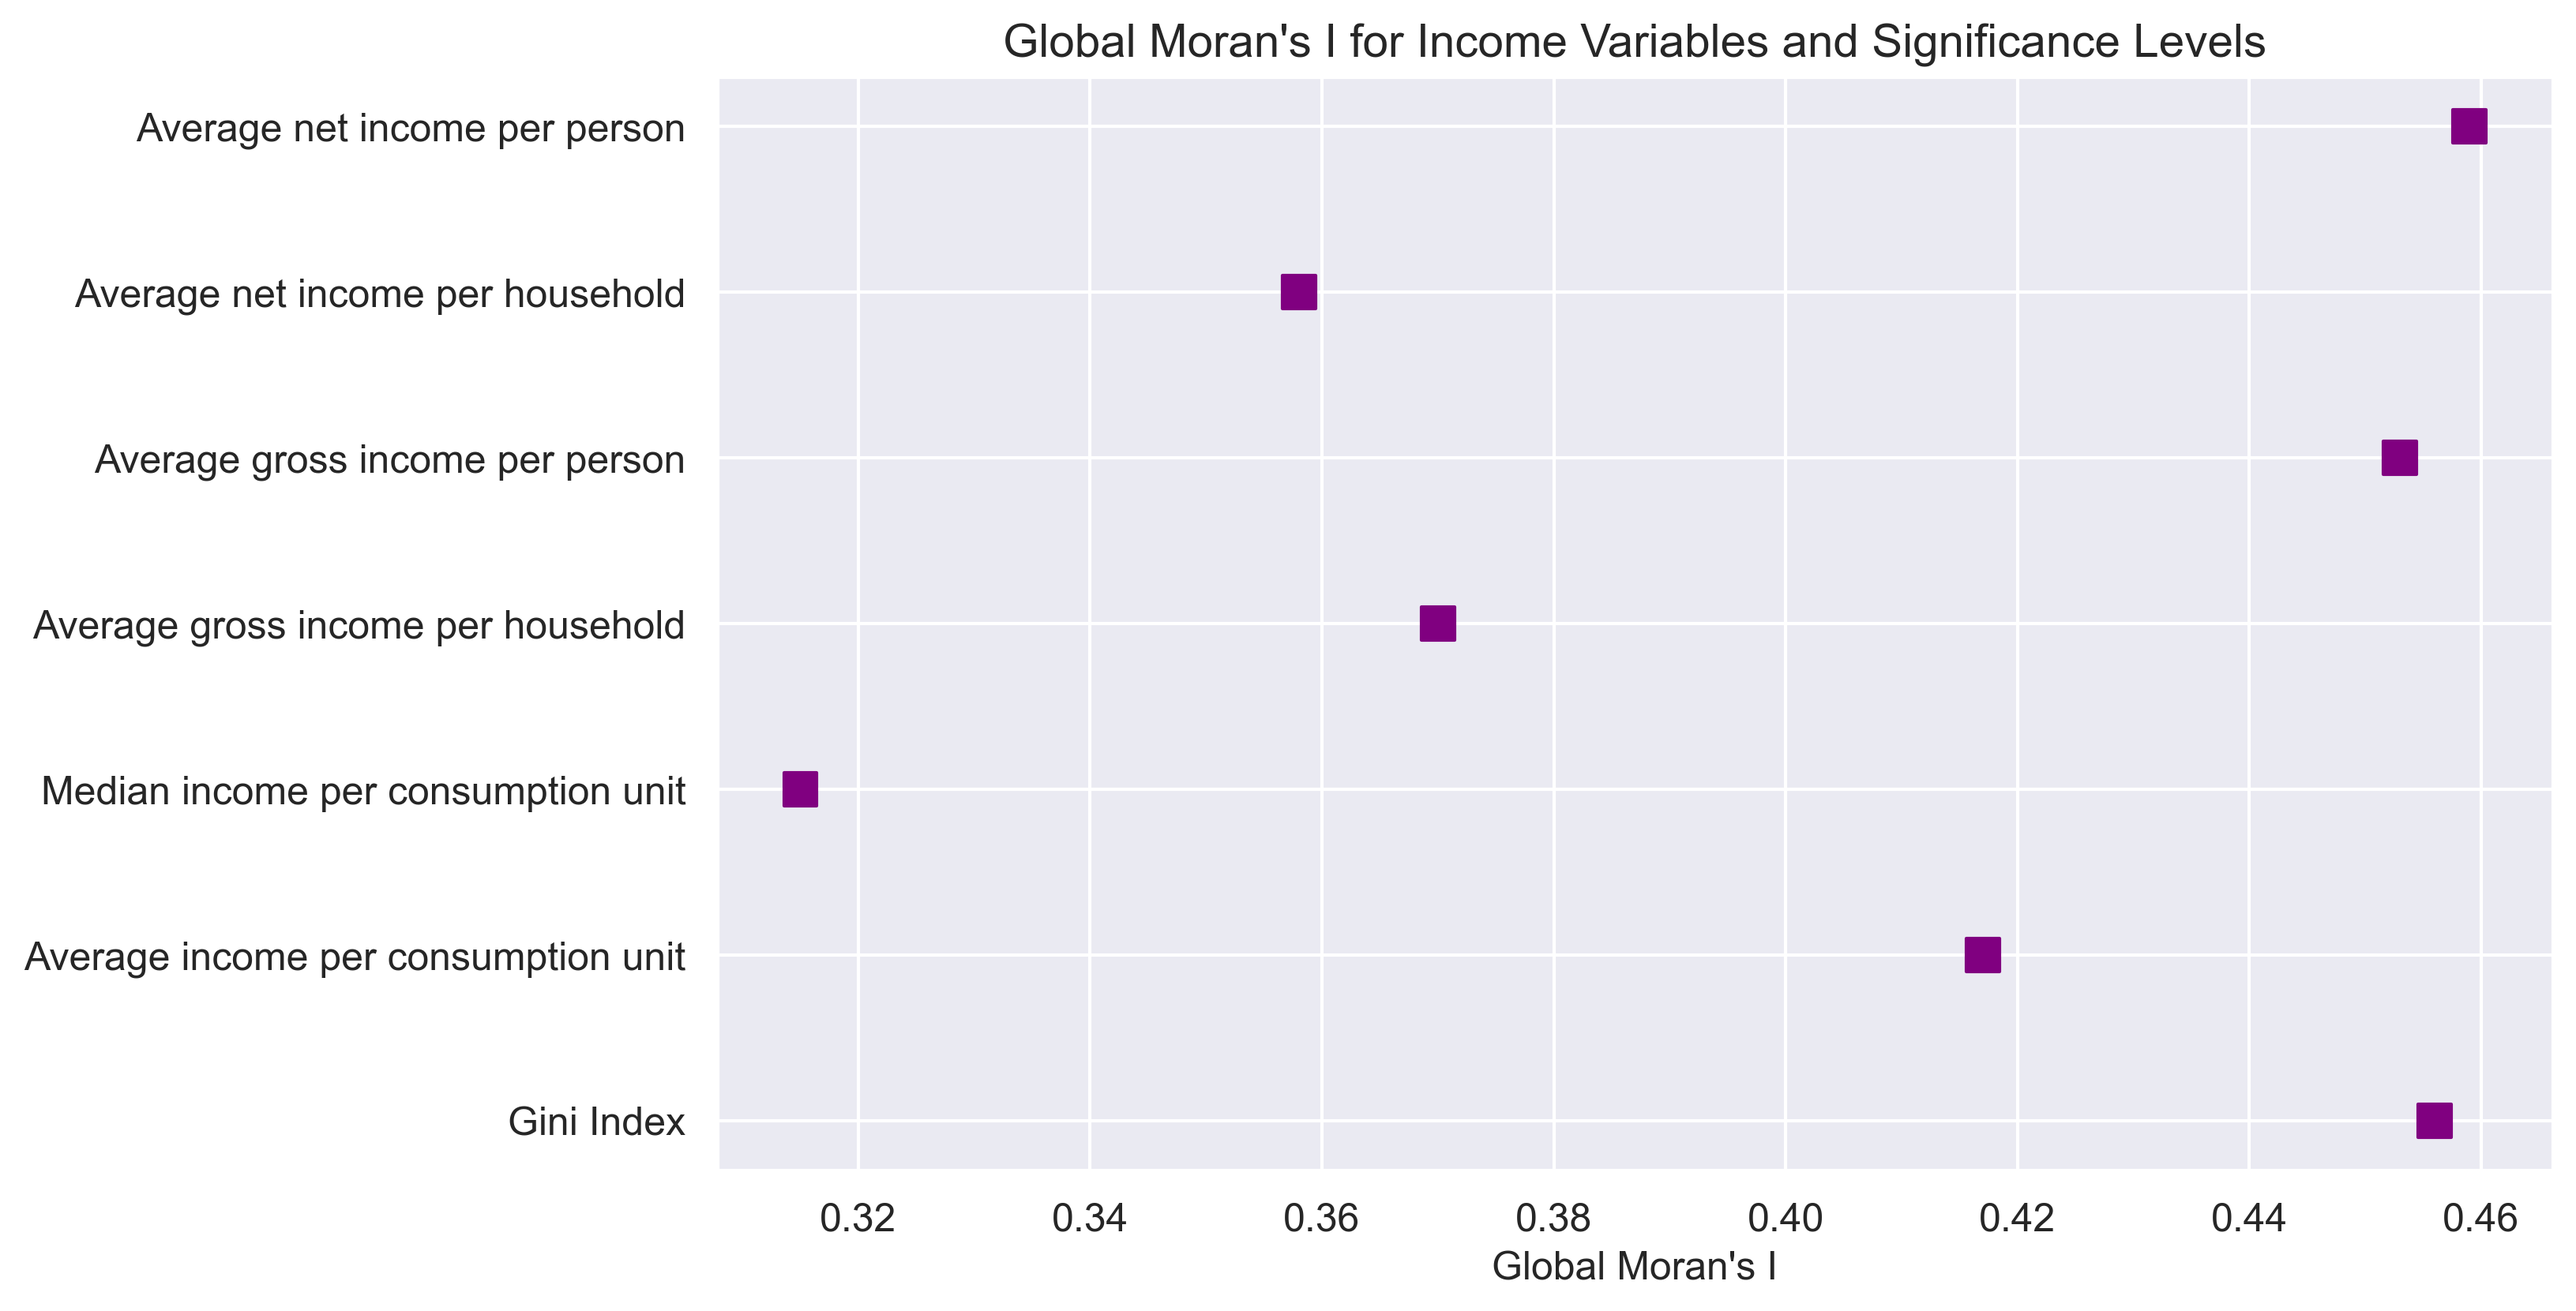
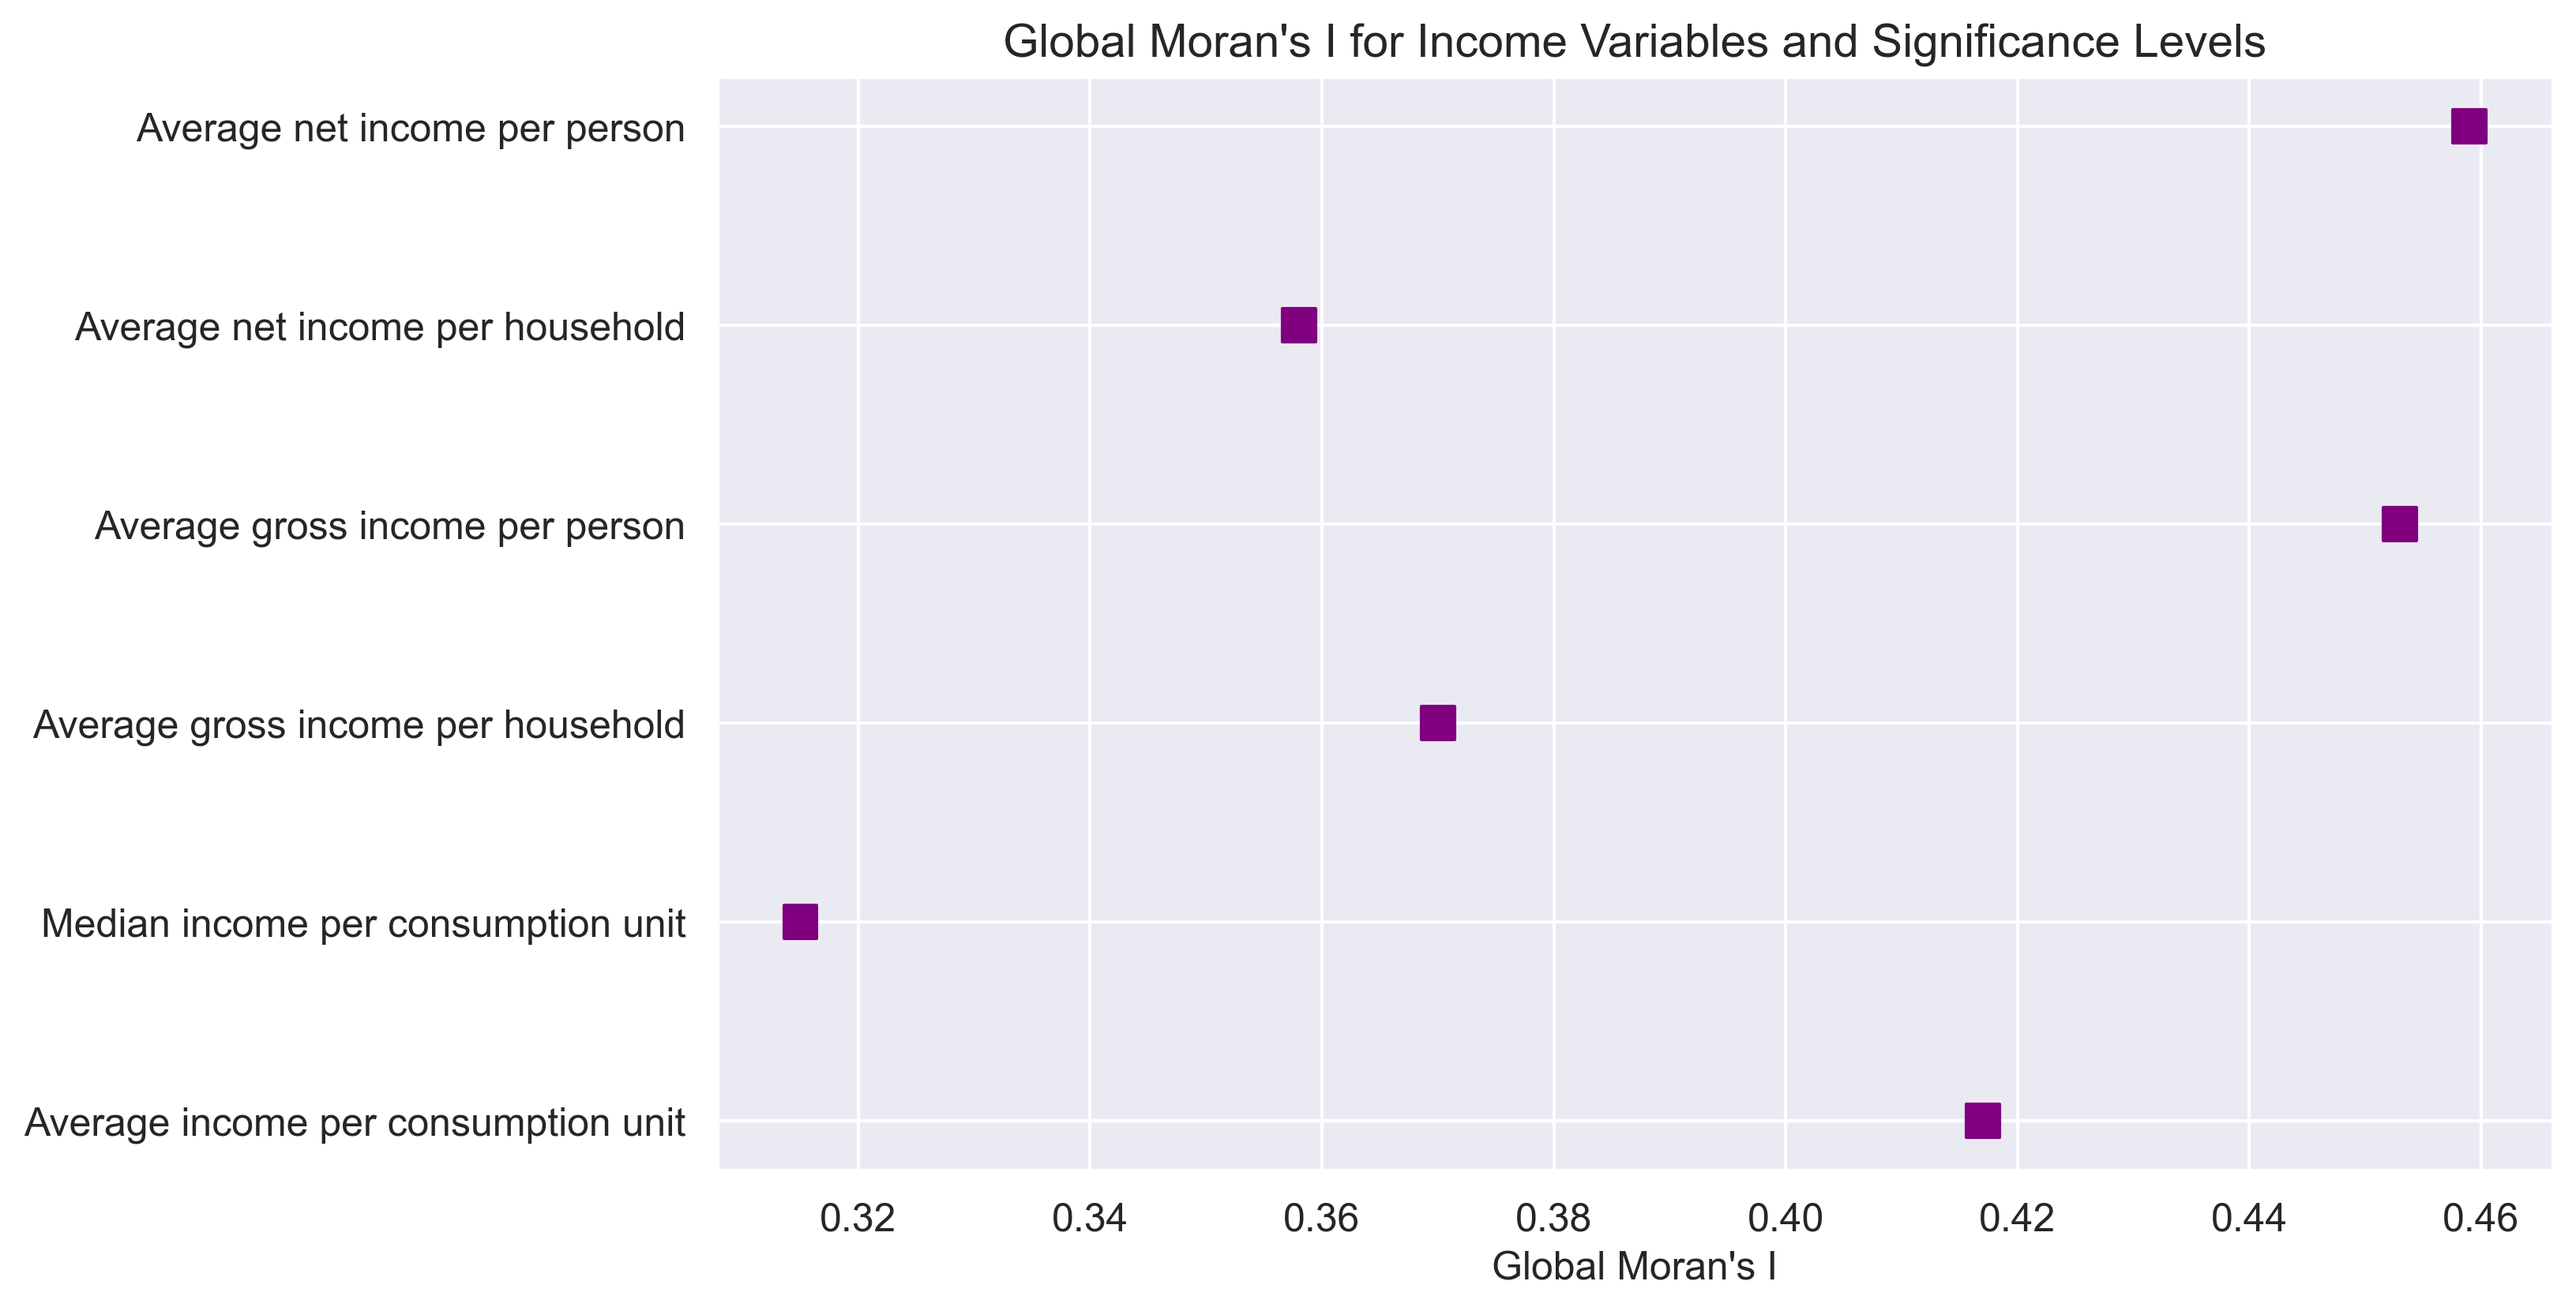
updated descriptives and cardinalities

diff --git a/data_overview/main_descriptives.py b/data_overview/main_descriptives.py
@@ -175,10 +175,11 @@ if cfg.SAVE_DATASETS:
     gini_and_districts.to_csv(cfg.DATASETS_PATH / 'districts_and_gini.csv', index=False)
 
 # GLOBAL MORANS I ------------------------------------------------------------------------------------------------------------------------------------------------------------------------------------------------------------
+morans_filtered = morans[morans['Variable'] != 'Gini Index']
 
-variables = morans['Variable']  # The income variables
-morans_I = morans['Global Morans I']  # The Global Moran's I values
-p_values = morans['P-value']  # The p-values
+variables = morans_filtered['Variable']  # The income variables
+morans_I = morans_filtered['Global Morans I']  # The Global Moran's I values
+p_values = morans_filtered['P-value']  # The p-values
 
 colors = ['purple' if p < 0.05 else 'black' for p in p_values]
 

diff --git a/segregation_indices/weight_matrix_analysis.py b/segregation_indices/weight_matrix_analysis.py
@@ -62,5 +62,6 @@ ax.set_xlabel('Cardinality')
 ax.set_ylabel('Frequency')
 ax.set_title('Histogram of Cardinalities: Queen vs Rook Weight Matrices')
 ax.legend()
-
+if cfg.SAVE_FIGURES:
+    plt.savefig(cfg.FIGURES_PATH / f'weights_cardinalities.png', dpi=300, bbox_inches='tight')
 plt.show()
